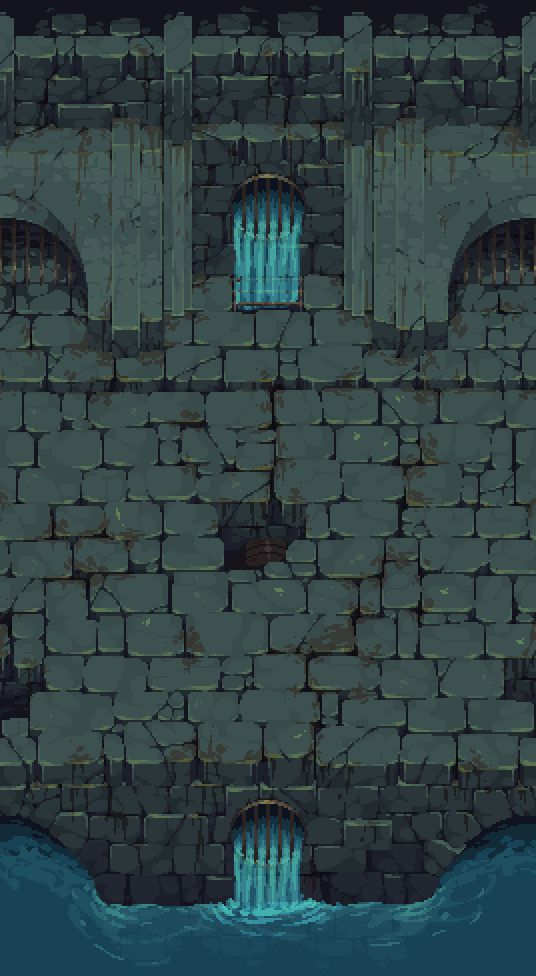
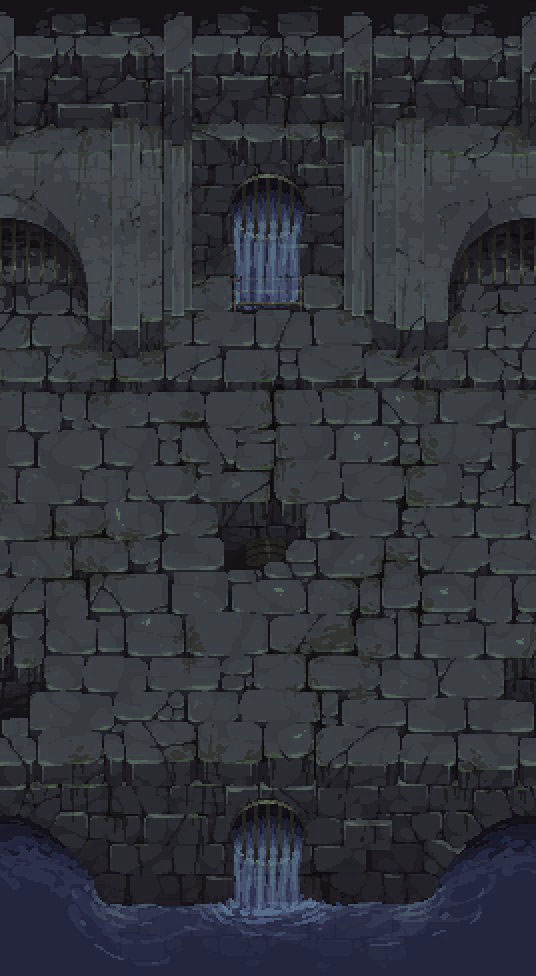
Небольшие изменения визуала

Changed region(s): [[0.0, 0.8299, 1.0, 1.0], [0.4179, 0.1844, 0.5672, 0.3381]]

diff --git a/Client/src/components/GameView/fragments/CoinsCounter.tsx b/Client/src/components/GameView/fragments/CoinsCounter.tsx
@@ -2,24 +2,22 @@ import coinPNG from "../../../assets/ConfigTemplates/coin-template.png";
 
 interface Props {
   allCoins: number;
-  currentCoinsCount: number
+  currentCoinsCount: number;
 }
 
-const CoinsCounter = ({allCoins, currentCoinsCount,...props}: Props) => {
+const CoinsCounter = ({ allCoins, currentCoinsCount, ...props }: Props) => {
   return (
     <div className="flex items-center gap-1">
-      <img src={coinPNG} alt="Монета" className="w-8 h-6 object-cover"/>
+      <img src={coinPNG} alt="Монета" className="w-8 h-6 object-cover" />
       <div className="rounded-lg w-32 h-6 relative overflow-hidden">
-        <div className="bg-gradient-to-b from-zinc-200 from-30% to-zinc-400 to-100% h-full">
-        </div>
+        <div className="bg-gradient-to-b from-zinc-200 from-30% to-zinc-400 to-100% h-full"></div>
         <div
           className="bg-gradient-to-b from-emerald-400 from-30% to-emerald-600 to-100% absolute top-0 left-0 h-full transition-all duration-500 z-20"
-          style={{ width: `${(currentCoinsCount/allCoins) * 100}%` }}
+          style={{ width: `${(currentCoinsCount / allCoins) * 100}%` }}
         ></div>
         <div className="w-full h-full absolute top-0 left-0 flex justify-center items-center z-30  mix-blend-difference">
           <p className="text-slate-500 font-medium text-sm">{`${currentCoinsCount}/${allCoins}`}</p>
         </div>
-        
       </div>
     </div>
   );

diff --git a/Client/src/components/GameView/GameView.tsx b/Client/src/components/GameView/GameView.tsx
@@ -28,7 +28,7 @@ import BgImagePNG from "../../assets/Background/Floor.png";
 import characterPNG from "../../assets/Character/character.png";
 
 import styles from "./GameView.module.scss";
-import { faWrench } from "@fortawesome/free-solid-svg-icons";
+import { faGear, faWrench } from "@fortawesome/free-solid-svg-icons";
 
 export const GameView = () => {
   const navigate = useNavigate();
@@ -177,10 +177,10 @@ export const GameView = () => {
           <div className="py-3 px-4 w-full absolute top-0 left-0 flex justify-between items-center">
             <a
               href="/config"
-              className="text-slate-200 cursor-pointer hover:text-slate-400 transition-colors"
+              className="text-zinc-200 cursor-pointer hover:text-zinc-400 transition-colors"
               title="Конфигурация"
             >
-              <FontAwesomeIcon icon={faWrench} size="lg" />
+              <FontAwesomeIcon icon={faGear} size="lg" />
             </a>
             <CoinsCounter currentCoinsCount={coinsCount} allCoins={obstacles.coins} />
           </div>
